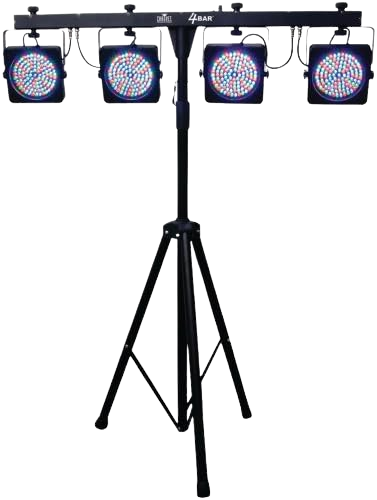
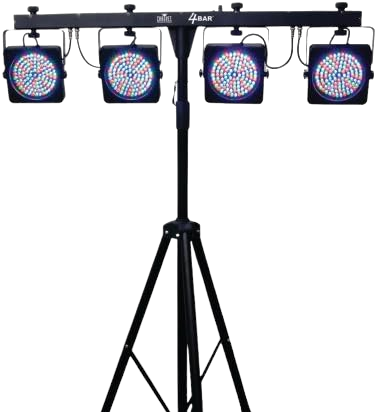
i

Changed region(s): [[0.0, 0.0, 1.0, 0.3204], [0.2334, 0.4369, 0.6711, 1.0], [0.3793, 0.9029, 0.4377, 0.9903]]

diff --git a/packages.html b/packages.html
@@ -166,11 +166,13 @@
                         <div class="left-column">
                             <div class="img-card">
                                 <img class="bar reveal" src="images/bar.png" alt="">
-                                <img class="beamLeft reveal  revealDown" src="images/beamleft.png" alt="">
-                                <img class="beamRight reveal  revealDown" src="images/beamright.png" alt="">
+                                
                                 <img class="monitor1  reveal revealLeft" src="images/monitor.png" alt="">
                                 <img class="monitor2 reveal revealRight " src="images/monitor.png" alt="">
                                 <img class="pioneer reveal " src="images/pioneer.png" alt="">
+                                <img class="booth reveal " src="images/boothBlack.png" alt="">
+                                <img class="trust reveal " src="images/trust.png" alt="">
+
                             </div>
                         </div>
                         <div class="right-column">

diff --git a/style.css b/style.css
@@ -304,6 +304,12 @@ body {
 
 }
 
+.trust{
+    height: 380px;
+    /* z-index: 0; */
+    bottom: 80px;
+}
+
 .pioneer{
     height: 100px;
     bottom: 20px;
@@ -337,7 +343,7 @@ body {
 }
 
 .bar{
-    height: 400px;
+    height: 340px;
 }
 
 /* .left-column{
@@ -672,7 +678,7 @@ body {
     }
 
     .tab .img-card{
-        max-width:325px ;
+        max-width:350px ;
     }
     .pioneer{
         height: 80px;
@@ -682,13 +688,13 @@ body {
     
     .monitor1{
         height: 200px;
-        left: -80px;
+        left: 2px;
         z-index: 1;
     }
     
     .monitor2{
         height: 200px;
-        right: -80px;
+        right: 2px;
         z-index: 1;
     }
     
@@ -711,10 +717,16 @@ body {
         z-index: 1;
         bottom: -20px;
     }
+
+    .trust{
+        height: 220px;
+        z-index: 0;
+        bottom: 80px;
+    }
     
     .bar{
         height: 200px;
-        top: 15px;
+        top: 65px;
     }
 
     .nav-link{
